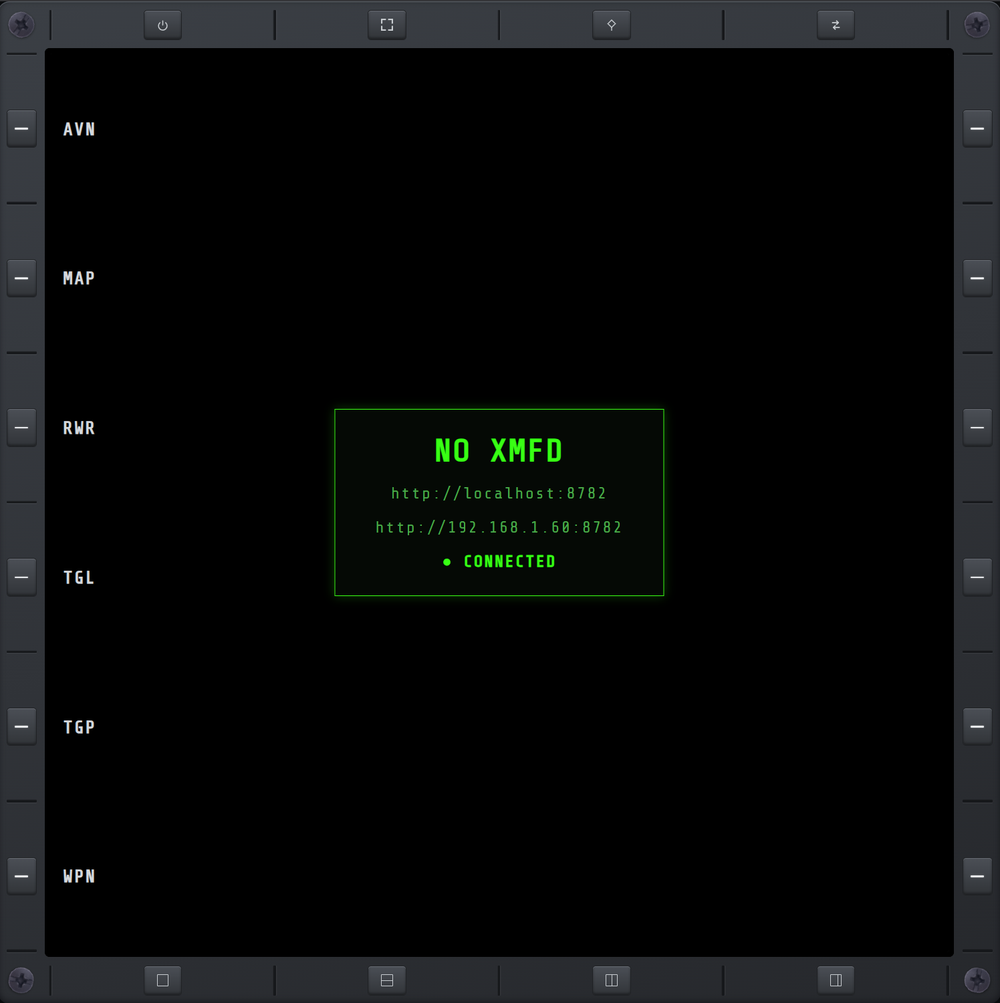
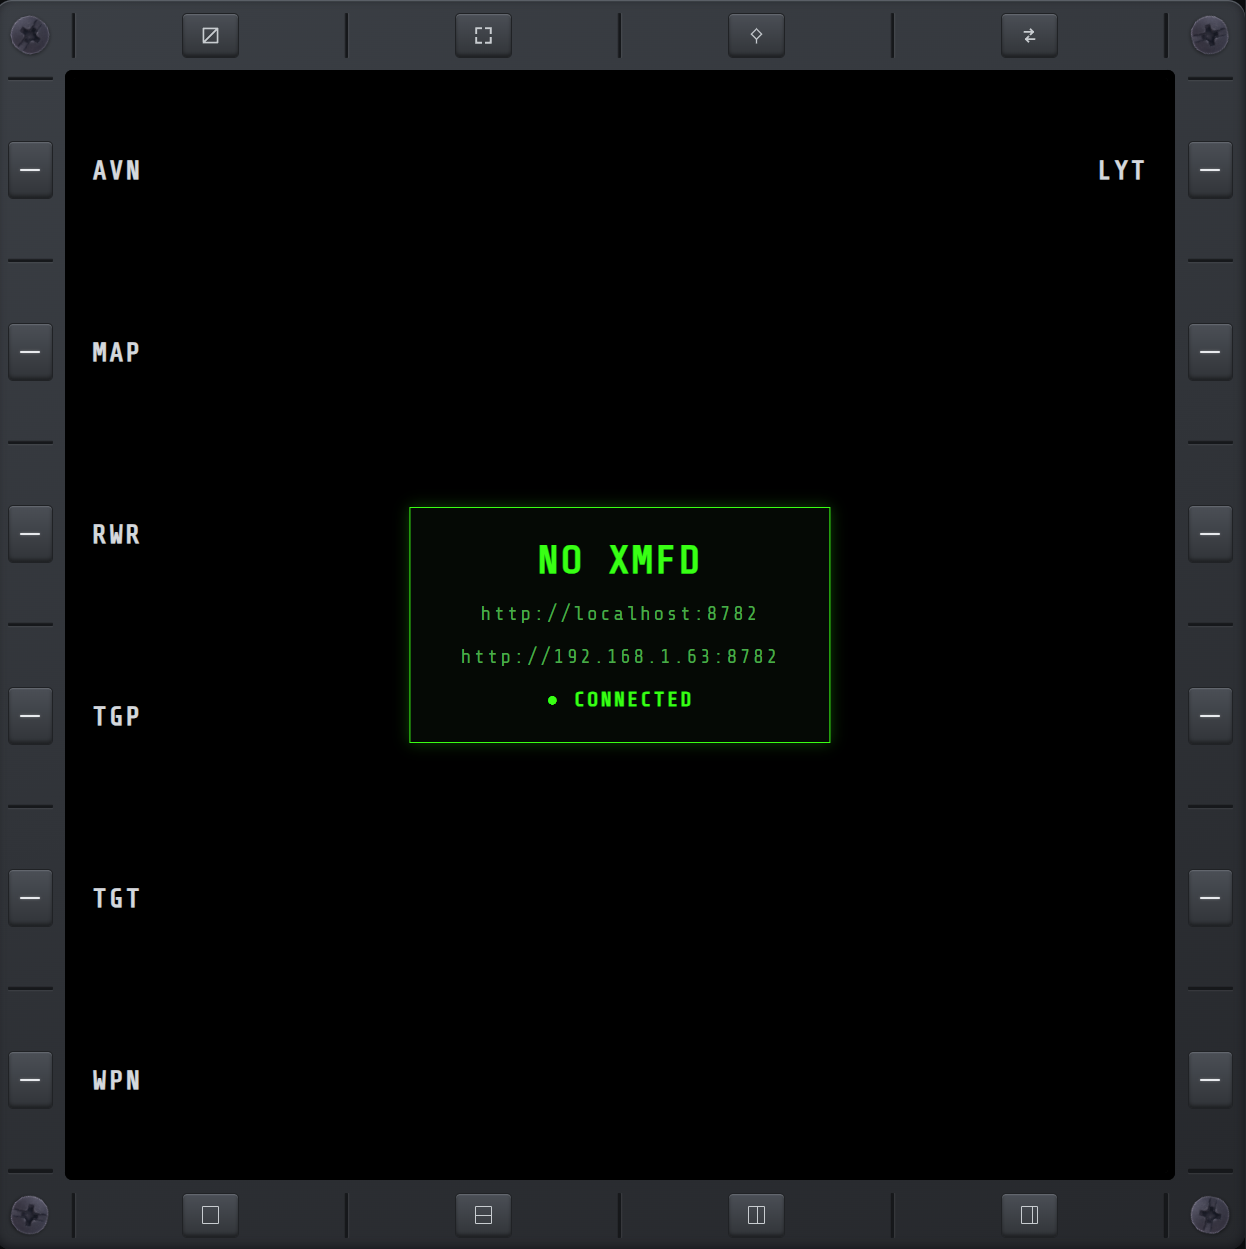
README: document MFD layouts and the LYT page
Add an MFD layouts section after MFD shell — a brief note that the display can
render in different shell layouts (CLASSIC and F-35 for now), with an F-35
subsection describing the borderless, touch-driven layout and a collapsible of
its three screenshots. Add an LYT entry to the MFD pages list after WPN (the
layout chooser) with its screenshot, and refresh the MAIN screenshot.

diff --git a/README.md b/README.md
@@ -149,6 +149,15 @@ pilot, with HOTAS-friendly keybinds to match.
 
   </details>
 
+- **LYT** — layout chooser: switch the shell between CLASSIC and F-35, with the current layout highlighted. See [MFD layouts](#mfd-layouts) below.
+
+  <details>
+  <summary>$\color{green}\textsf{Show screenshot}$</summary>
+
+  ![LYT page](docs/images/LYT.png)
+
+  </details>
+
 ### MFD shell
 
 The shell frames the active page with dedicated bezel buttons — function
@@ -169,6 +178,32 @@ controls along the top, layout presets along the bottom.
 ![V_SPLIT (left) and H_SPLIT (right)](docs/images/H_V_SPLIT.png)
 
 ![V_WIDE_SPLIT](docs/images/V_WIDE_SPLIT.png)
+
+</details>
+
+### MFD layouts
+
+NO XMFD can render in more than one shell layout — a different frame,
+navigation, and split model over the same pages. Two are supported for now:
+**CLASSIC** (the metallic bezel above) and **F-35**.
+
+#### F-35
+
+A borderless, touch-driven layout modelled on the real F-35's panoramic cockpit
+display: there are no bezel keys — the navigation labels are drawn on the glass
+and tapped directly, and the screen divides into side-by-side portals, each an
+independent MFD, that you merge and split with corner grips. A fixed strip
+across the top carries the aircraft-level readouts — connection, mission,
+throttle and fuel, and the avionics flags.
+
+<details>
+<summary>$\color{green}\textsf{See screenshots}$</summary>
+
+![F-35 layout — MAIN](docs/images/F-35%20MAIN.png)
+
+![F-35 layout — 1-2-1 portal split](docs/images/F-35%201-2-1.png)
+
+![F-35 layout — 2-2 portal split](docs/images/F-35%202-2.png)
 
 </details>
 